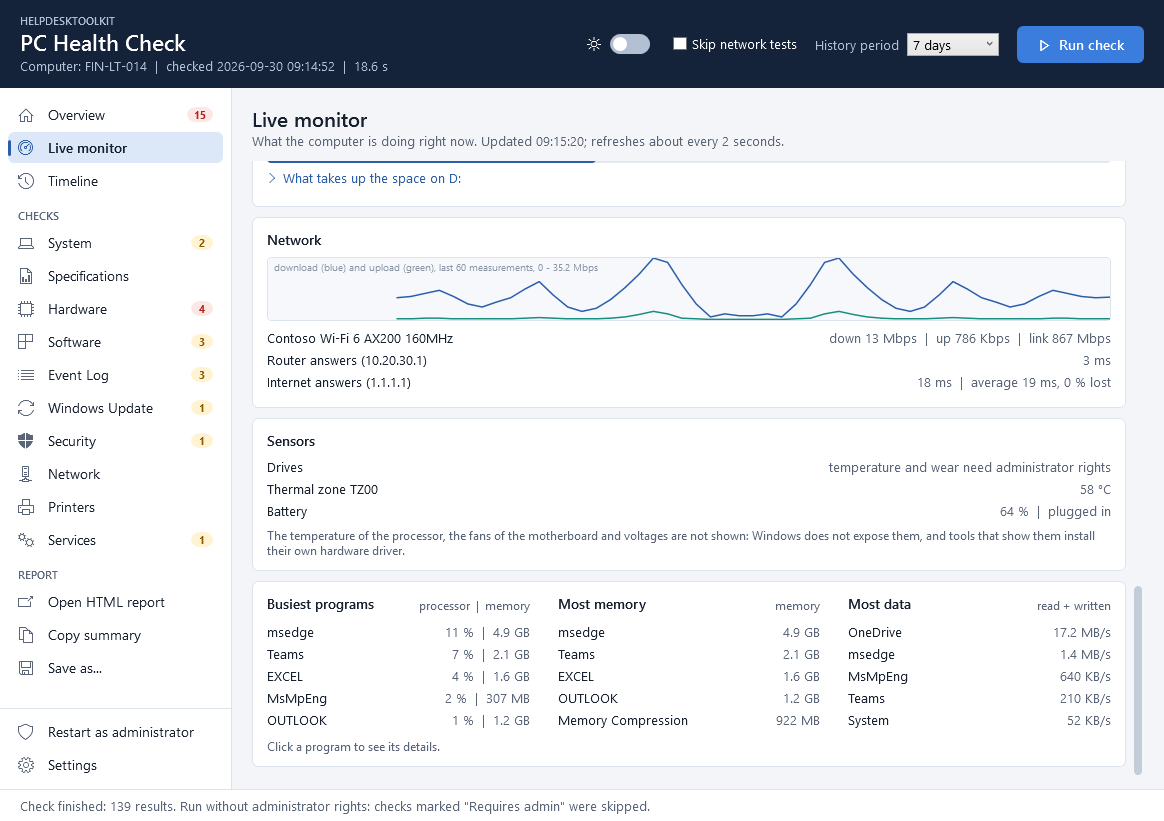
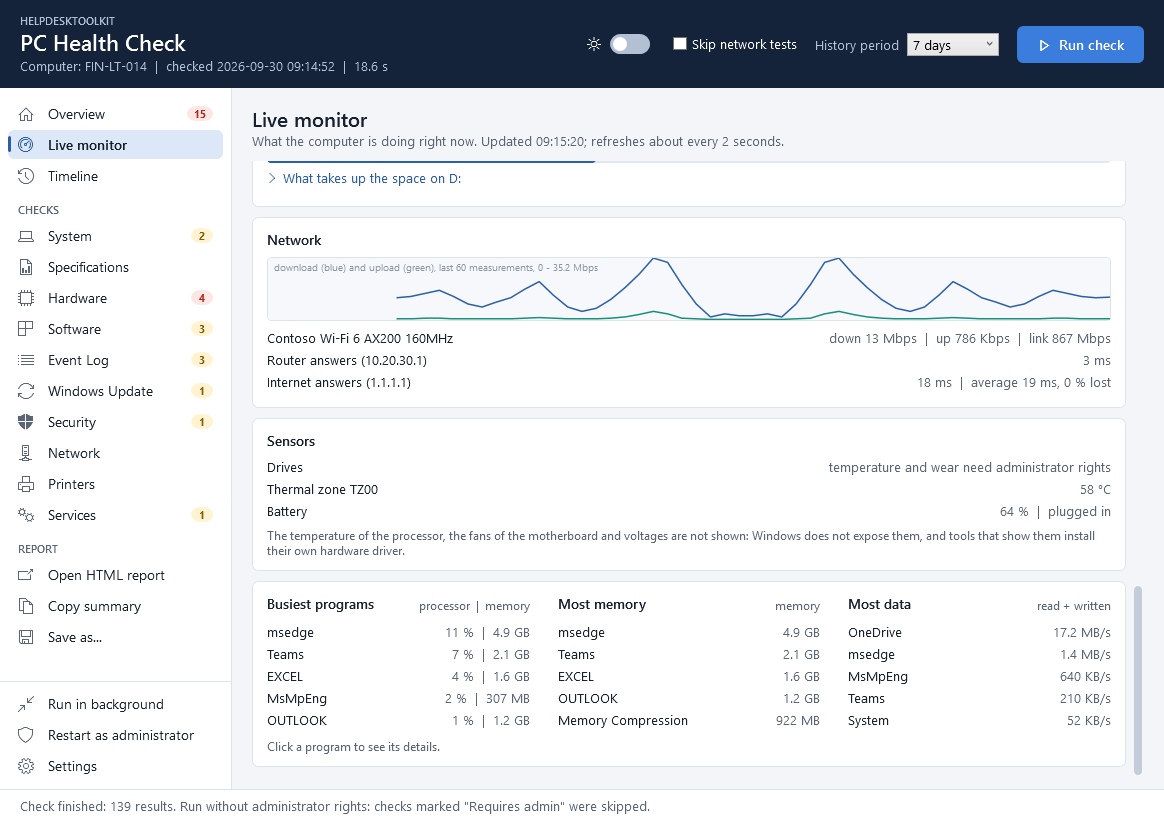
docs: describe the new page of a category and renew the screenshots

diff --git a/README.hr.md b/README.hr.md
@@ -114,11 +114,11 @@ povijesti) također se pamte do sljedećeg pokretanja.
   *Checks*, svaka sa svojom ikonom; broj uz kategoriju je broj problema u njoj, crven
   kad je neki od njih kritičan. Ispod su radnje za izvještaj, a na dnu administratorska
   prava i postavke, koje u niskom prozoru ostaju vidljive dok se ostatak pomiče.
-- **Četiri stupca:** stranica kategorije prikazuje rezultate jedan do drugoga, po
-  jedan stupac za svaki status: Info, OK, Warning, Critical. Svaka vrsta stoji za sebe,
-  pa se problem ne može previdjeti među ostalim. Kartica prikazuje naziv provjere i
-  vrijednost; klik otvara objašnjenje, dopušteni raspon i rješenje. Problemi su
-  otvoreni od početka.
+- **Stranica kategorije:** prvo dolaze problemi, svaki preko cijele širine: lijevo što
+  je nađeno i zašto je to važno, desno rješenje sa svojim gumbom. Sve što ne traži
+  pažnju slijedi kao pločice u tri stupca, s točkom u boji statusa; klik na pločicu
+  otvara objašnjenje i dopušteni raspon. Brojači na vrhu pokazuju koliko rezultata
+  ima koji status, a klik na jedan ostavlja na stranici samo taj status.
 - **Najteže prvo:** gdje god su rezultati poredani jedan ispod drugoga (Overview,
   pretraga, izvještaj), idu redom Critical, Warning, OK, Info.
 - **Pretraga** traži po svim rezultatima odjednom, a filtar statusa sužava popis, na
@@ -170,7 +170,8 @@ Dvije opcije na stranici **Settings**, obje isključene na početku:
 - **Keep running when the window is closed.** Zatvaranje prozora ga tada samo sakrije.
   Aplikacija ostaje kao ikona pokraj sata, ponavlja provjeru i novi problem javlja
   Windows obavijesti. Klik na ikonu ponovno otvara prozor; desni klik nudi *Open*,
-  *Run check now* i *Exit*, kojim se aplikacija stvarno gasi.
+  *Run check now* i *Exit*, kojim se aplikacija stvarno gasi. Gumb **Run in
+  background** na dnu bočne trake radi isto odmah, bez obzira na ovu opciju.
 - **Start with Windows.** Stavlja prečac u mapu Startup tvog korisnika (vidi se pod
   *Startup apps* u Windowsima, gdje se može isključiti kao i svaki drugi). Aplikacija
   se tada pokreće pri prijavi, bez prozora, kao ikona pokraj sata, i provjeru radi sa

diff --git a/README.md b/README.md
@@ -114,11 +114,12 @@ number of days of history) are remembered for the next start as well.
   many problems it has, red when one of them is critical. Below them are the actions
   for the report, and at the bottom the administrator rights and the settings, which
   stay in view in a low window while the rest scrolls.
-- **Four columns:** the page of a category shows its results side by side, one column
-  per status: Info, OK, Warning, Critical. Each kind stands by itself, so a problem
-  cannot be overlooked among the rest. A card shows the name of the check and its
-  value; a click opens the explanation, the allowed range and the fix. The problems
-  are open from the start.
+- **The page of a category:** the problems come first, each across the whole width:
+  what was found and why it matters on the left, the fix with its button on the
+  right. Everything that needs no attention follows as tiles in three columns, with a
+  dot in the color of its status; a click on a tile opens the explanation and the
+  allowed range. The chips at the top count the results per status, and a click on
+  one leaves only that status on the page.
 - **Most severe first:** wherever results are listed below each other (Overview,
   search, the report), they come as Critical, Warning, OK, Info.
 - **Search** looks through all results at once, and the status filter narrows the
@@ -174,7 +175,8 @@ Two options on the **Settings** page, both off at first:
   The application stays as an icon next to the clock, repeats the check and announces
   a new problem with a Windows notification. A click on the icon opens the window
   again; a right click offers *Open*, *Run check now* and *Exit*, which is how the
-  application is really ended.
+  application is really ended. **Run in background** at the bottom of the side bar
+  does the same at once, whatever this option says.
 - **Start with Windows.** Puts a shortcut into the Startup folder of your user (it
   appears under *Startup apps* in Windows, where it can be turned off like any other).
   The application then starts when you sign in, without a window, as the icon next to

diff --git a/CHANGELOG.md b/CHANGELOG.md
@@ -58,10 +58,11 @@ The first public version. It will be released as 1.0.0.
 - A side bar in the manner of Windows 11: an icon for every page, the check categories
   under a heading of their own, a bar that marks the open page, the number of problems
   per category, and the report actions, the rights and the settings below.
-- One page per category with its results in four columns, one per status (Info, OK,
-  Warning, Critical); a click on a card opens its details. Search over all results
-  and a filter by status. In every list, and in the report, the most severe results
-  come first.
+- One page per category: the problems first, each across the whole width with its
+  fix next to it, then everything else as tiles that open on a click. Chips at the
+  top count the results per status and filter the page. Search over all results and
+  a filter by status. In every list, and in the report, the most severe results come
+  first.
 - A Timeline page with the changes and failures of the last weeks, grouped by day,
   to find the change that came just before the first failure.
 - Below the score: which category cost how many points.
@@ -74,7 +75,8 @@ The first public version. It will be released as 1.0.0.
 - Optional: closing the window leaves the application running as an icon next to
   the clock (open, run the check, exit from its menu), and it can start with Windows
   that way, through a shortcut in the Startup folder of the user. Only one copy runs
-  at a time; a second start brings the window of the first one back.
+  at a time; a second start brings the window of the first one back. "Run in
+  background" in the side bar sends the window there at once.
 - A switch in the header (Ctrl+T) turns the light theme into the dark one and back,
   at once and without a restart.
 - Settings: English or Croatian, light or dark theme, the interval of the automatic
